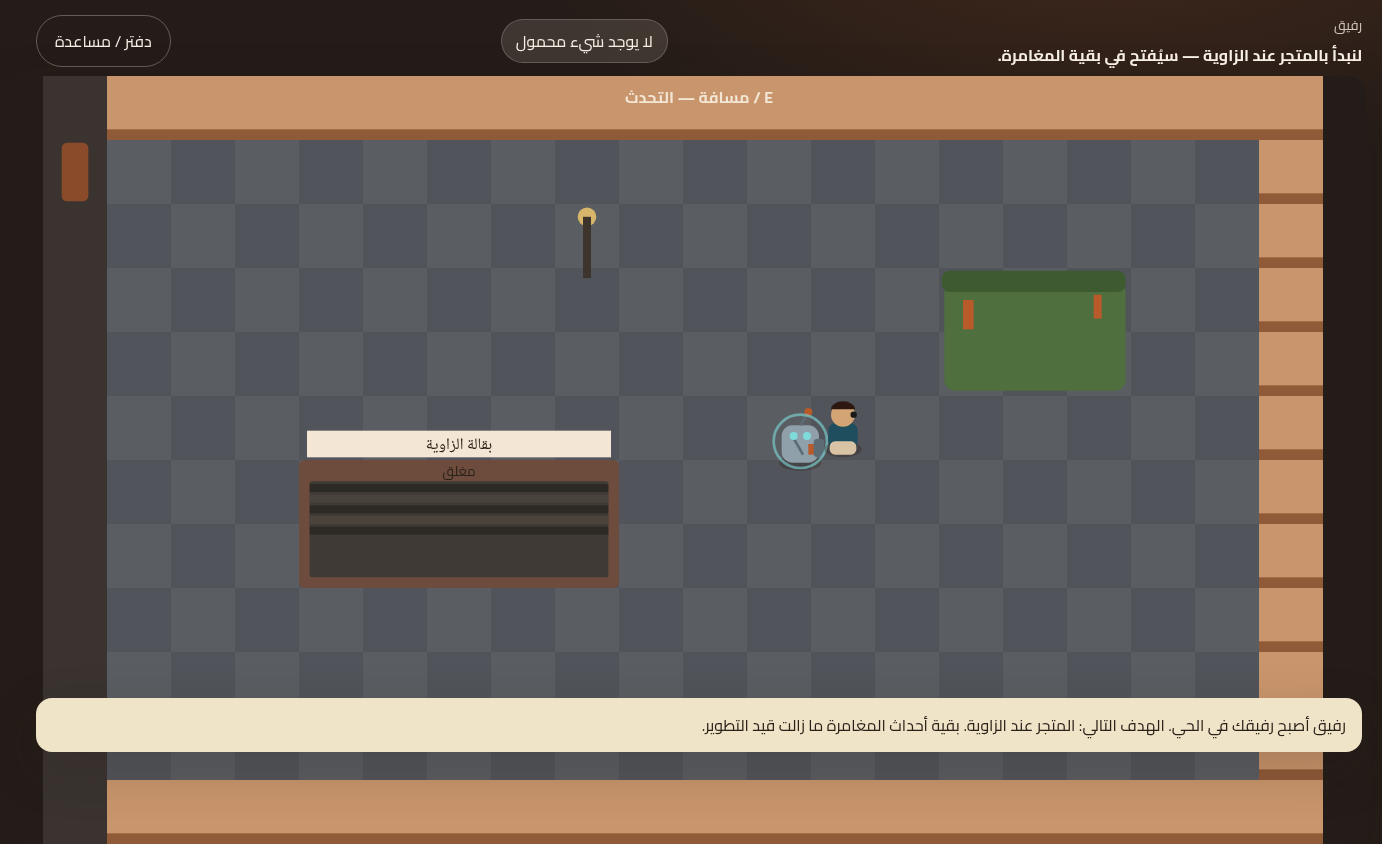
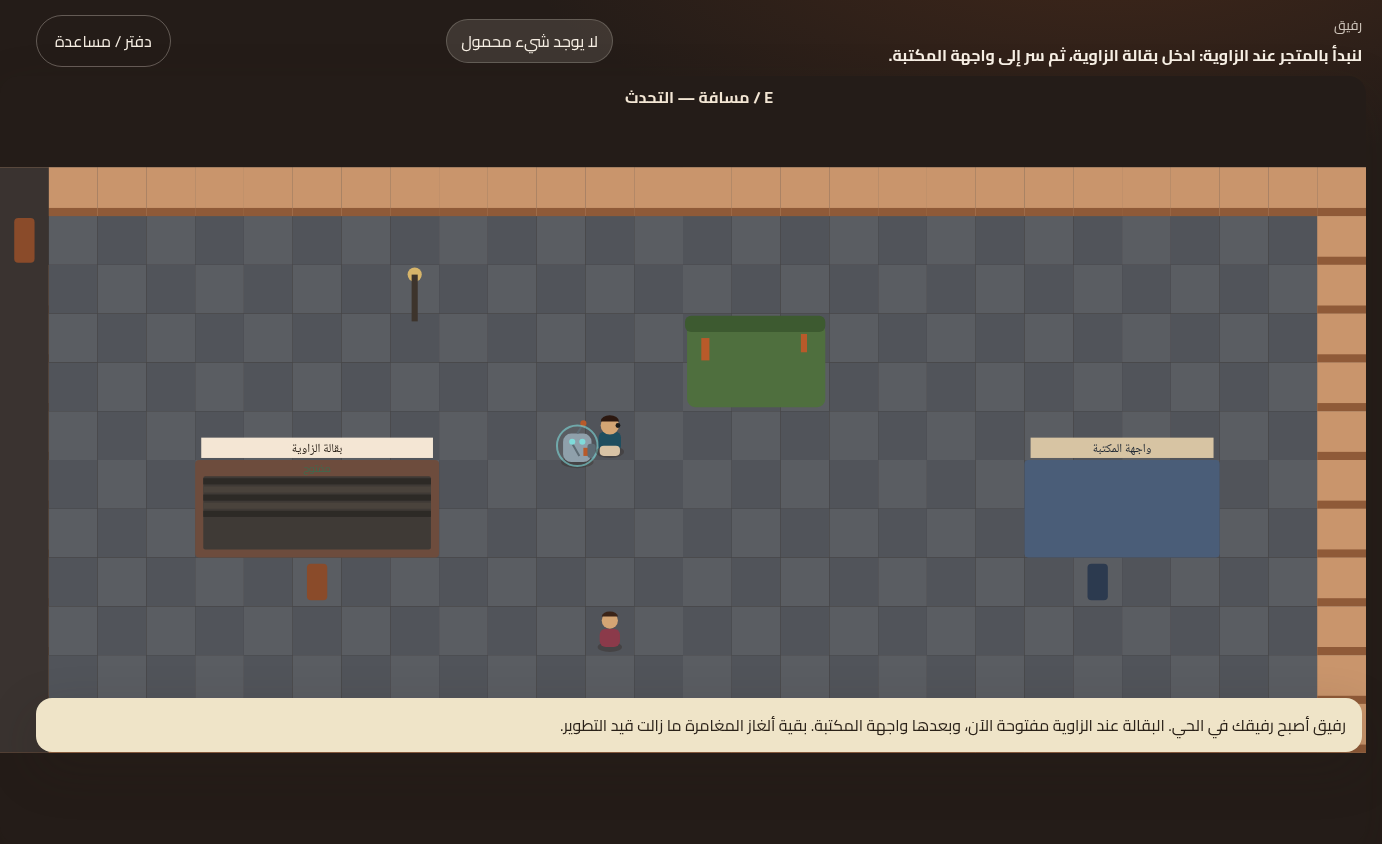
Record slice 02 neighborhood, save, and journal evidence.
Capture T01–T06 outputs under evidence/02, including shop/library/journal/resume screenshots and Chrome 148 checks on Ubuntu.

diff --git a/evidence/02/browser-checks.md b/evidence/02/browser-checks.md
@@ -1,0 +1,36 @@
+# T04 browser checks — slice 02
+
+Recorded 2026-09-09 on the Cloud Agent VM.
+
+## Environment that was tested
+
+| Item | Value |
+|---|---|
+| OS | Ubuntu 24.04.4 LTS (Linux 6.12.94+ x86_64) |
+| Browser | Google Chrome 148.0.7778.96 (`/usr/bin/google-chrome`) |
+| Playwright | `@playwright/test` 1.63, `executablePath=/usr/bin/google-chrome`, `--no-sandbox` |
+| App servers | Vite 6.4.3 **dev** `http://127.0.0.1:5173` and **preview** `http://127.0.0.1:4173` of `npm run build` |
+
+## Results
+
+All of the following Playwright files passed on **both** the development server and the production preview (18 tests each run):
+
+- `e2e/journey.spec.ts` — slice 01 opening still works on a fresh storage context.
+- `e2e/negative.spec.ts` — blank/overlong names; markup-like names as text; exit without bag; wall block; held Space; postpone/reopen; typing does not move the player.
+- `e2e/neighborhood.spec.ts` — checkpoint → shop → street → library, companion present, walls block, no lesson UI. Screenshots: `shop.png`, `library.png`, `journal.png`.
+- `e2e/save.spec.ts` — reload resume without name overlay (`resume.png`); NPC postpone persist; corrupt primary → recovered notice; `storage-warning`; بداية جديدة.
+- `e2e/privacy.spec.ts` — name absent from URL/title/console; `rafiq.adventure.v1` present; no `learnai*` keys.
+- `e2e/viewports.spec.ts` — 1366×768 and 1920×1080 with names `عبد الرحمن الطويل الأحمدي` and `Sara علي-Khan`. Journal overlay (`pause-overlay`, `journal-lead`, `journal-events`, `help-controls`) stayed inside the viewport; RTL; no `pageerror` or console `error`.
+
+Console errors observed in those viewport tests: **none**.
+
+Arabic shaping and mixed-script names were readable in the name confirmation, HUD, and journal overlay at both sizes. Overlays use `max-height: 90vh` and `overflow: auto`.
+
+No sound, pixel-perfect click, or timed reaction is required.
+
+## Untested (explicit)
+
+- Firefox, Microsoft Edge, and Safari
+- Windows and macOS desktops
+- Mobile viewports (out of slice)
+- Hardware Arabic keyboard (physical `KeyW`/`KeyA`/`KeyS`/`KeyD` codes were used; a physical Arabic keyboard was not attached)
